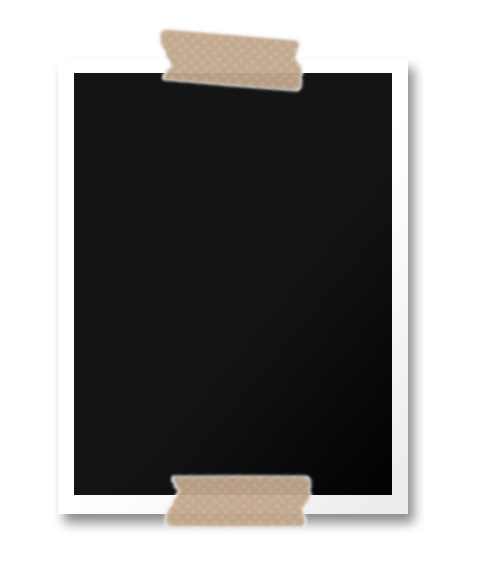
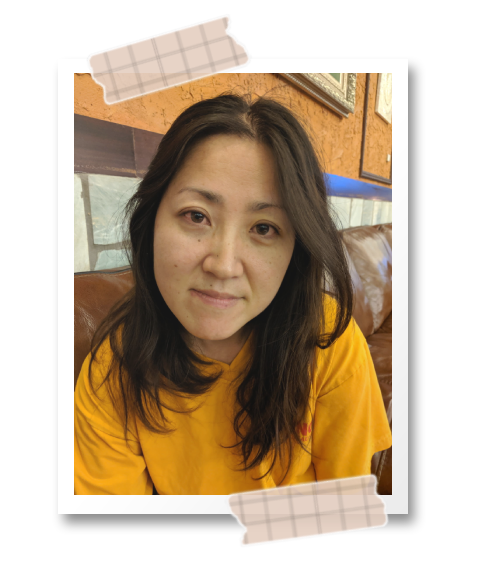
Updated About Me Section
- Updated About Me Section
- Added About Me Image

diff --git a/index.html b/index.html
@@ -47,13 +47,16 @@
 
 <div class="about-page m-0 p-0" id="about">
   <div class="row m-0 pb-5 px-0 justify-content-around">
-    <div class="about-note col-9 col-md-5 order-md-1 py-3 px-5">
+    <div class="col-0 col-md-1 order-md-1"></div>
+    <div class="about-note col-9 col-md-5 order-md-2 py-3 px-5">
       <h2 class="about-page-title">About Me</h2>
-      <p class="indent">To be added.</p>
+      <p class="indent">Hello, my name is Yuki and I’m a professionally trained baker that graduated from culinary school in Japan over twenty years ago. Over that time I’ve taken the time to craft the perfect recipes, influenced from my time in multiple bakeries, to scratch that sweet tooth. Because of that, I hope you’ll take the time to consider ordering from me!  </p>
+      <h1 class="about-page-signature">- Yuki</h1>
     </div>
-    <div class="about-image text-center col-9 col-md-5 order-md-2">
+    <div class="about-image text-center col-9 col-md-5 order-md-3">
       <img class="img-fluid m-0" src="images/about-img.png" alt="about me card">
     </div>
+    <div class="col-0 col-md-1 order-md-4"></div>
   </div>
   
 </div>

diff --git a/style.css b/style.css
@@ -166,6 +166,12 @@ body {
   text-align: center;
 }
 
+.about-page-signature {
+  color: #F77DBC;
+  font-size: calc(2.0em + 1.0vw);
+  text-align: right;
+}
+
 /*-----------------------------ABOUT----------------------------*/
 
 
